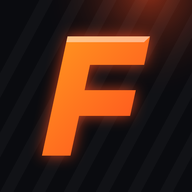
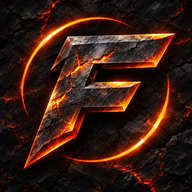
v1.14.0: własne grafiki w całej aplikacji
- logotyp, ikona aplikacji, ekran startowy z obrazem kuźni
- własne ikony nawigacji, narzędzi i partii mięśniowych
- zbliżenia mięśni na kartach ćwiczeń (mężczyzna i kobieta), podświetlenie w kolorze aplikacji
- tła ekranu głównego i podsumowania, karta do udostępniania, efekt rekordu
- ilustracje pustych ekranów, kreatora i poradnika, tekstura kart

Claude-Session: https://claude.ai/code/session_01MBC5hNdmTuuPU3k5V81gkn

diff --git a/js/body.js b/js/body.js
@@ -5,14 +5,15 @@
   const sexKey = () => F.S.settings.sex === 'f' ? 'f' : 'm';
   const px = img => { const c = document.createElement('canvas'); c.width = img.naturalWidth; c.height = img.naturalHeight; const g = c.getContext('2d', { willReadFrequently: true }); g.drawImage(img, 0, 0); return g.getImageData(0, 0, c.width, c.height).data; };
   const loadImg = src => new Promise((res, rej) => { const i = new Image(); i.onload = () => res(i); i.onerror = rej; i.src = src; });
-  const load = sex => cache[sex] || (cache[sex] = Promise.all([loadImg(`assets/body/${sex}.webp`), loadImg(`assets/body/${sex}-id.png`)]).then(([a, b]) => ({ w: a.naturalWidth, gray: px(a), id: px(b) })).catch(e => { cache[sex] = null; throw e; }));
+  const load = k => cache[k] || (cache[k] = Promise.all([loadImg(`assets/body/${k}.webp`), loadImg(`assets/body/${k}-id.png`)]).then(([a, b]) => ({ w: a.naturalWidth, gray: px(a), id: px(b) })).catch(e => { cache[k] = null; throw e; }));
   const hex = h => { h = String(h).trim().replace('#', ''); if (h.length === 3) h = [...h].map(x => x + x).join(''); return [0, 2, 4].map(i => parseInt(h.substr(i, 2), 16)); };
   const token = t => { const v = t === 'a1' || t === 'a2' ? getComputedStyle(document.documentElement).getPropertyValue('--' + t) : t; return hex(v); };
 
   async function paint(cv) {
-    const sex = cv.dataset.sex || sexKey(), view = cv.dataset.v, m = F.BODY[sex]; const r = cv.dataset.crop ? cv.dataset.crop.split(',').map(Number) : m.r[view];
+    const sex = cv.dataset.sex || sexKey(), view = cv.dataset.v, file = cv.dataset.f ? sex + '-' + cv.dataset.f : sex;
     const colors = JSON.parse(cv.dataset.c || '{}'), dim = +(cv.dataset.dim || 1); const tint = [null]; ORDER.forEach(n => tint.push(colors[n] ? token(colors[n]) : null));
-    let d; try { d = await load(sex); } catch (e) { return; }
+    let d; try { d = await load(file); } catch (e) { return; }
+    const r = cv.dataset.f ? [0, 0, d.w, Math.round(d.gray.length / 4 / d.w)] : F.BODY[sex].r[view];
     cv.width = r[2]; cv.height = r[3]; cv.dataset.vw = view; const g = cv.getContext('2d'), out = g.createImageData(r[2], r[3]), o = out.data;
     for (let y = 0; y < r[3]; y++) for (let x = 0; x < r[2]; x++) {
       const s = ((y + r[1]) * d.w + x + r[0]) * 4, k = (y * r[2] + x) * 4, v = d.gray[s] / 255, c = tint[d.id[s]];
@@ -33,21 +34,17 @@
     for (const [dx, dy] of [[0, 0], [8, 0], [-8, 0], [0, 8], [0, -8]]) { const id = d.id[((y + dy) * d.w + x + dx) * 4]; if (id) { F.act.musTap({ dataset: { m: ORDER[id - 1] } }); return; } }
   });
 
-  F.bodyCv = (view, colors, o = {}) => `<canvas class="bodyc ${o.cls || ''}" data-v="${view}" data-c="${E(JSON.stringify(colors || {}))}"${o.crop ? ` data-crop="${o.crop.join(',')}"` : ''}${o.dim ? ` data-dim="${o.dim}"` : ''}${o.tap ? ' data-tap="1"' : ''} aria-hidden="true"></canvas>`;
+  F.bodyCv = (view, colors, o = {}) => `<canvas class="bodyc ${o.cls || ''}" data-v="${view}" data-c="${E(JSON.stringify(colors || {}))}"${o.f ? ` data-f="${o.f}"` : ''}${o.dim ? ` data-dim="${o.dim}"` : ''}${o.tap ? ' data-tap="1"' : ''} aria-hidden="true"></canvas>`;
 
-  // grafika ćwiczenia: wybiera stronę ciała i kadr na pracujących mięśniach
-  F.exArt = (ids, aspect = 2) => {
-    const sex = sexKey(), m = F.BODY[sex]; const pri = new Set(), sec = new Set();
-    (Array.isArray(ids) ? ids : [ids]).forEach(id => { const x = F.exMuscles(id); x.p.forEach(n => pri.add(n)); x.s.forEach(n => sec.add(n)); });
-    const P = [...pri].filter(n => ORDER.includes(n)); const count = v => P.filter(n => m.bb[v + '-' + n]).length;
-    if (!P.length) { // całe ciało i cardio: pełna sylwetka
-      const legs = { quads: 'a1', calves: 'a1', glutes: 'a2', hams: 'a2' }; return `<div class="wk-art full">${F.bodyCv('f', legs, { dim: .8 })}${F.bodyCv('b', legs, { dim: .8 })}</div>`;
-    }
-    const v = count('b') > count('f') ? 'b' : 'f'; const colors = {}; sec.forEach(n => { if (ORDER.includes(n)) colors[n] = 'a2'; }); P.forEach(n => { colors[n] = 'a1'; });
-    const R = m.r[v], boxes = P.map(n => m.bb[v + '-' + n]).filter(Boolean); let x0 = Math.min(...boxes.map(b => b[0])), y0 = Math.min(...boxes.map(b => b[1])), x1 = Math.max(...boxes.map(b => b[0] + b[2])), y1 = Math.max(...boxes.map(b => b[1] + b[3]));
-    let w = Math.max(x1 - x0 + 70, 340), h = Math.max(y1 - y0 + 70, 200); if (w / h < aspect) w = h * aspect; else h = w / aspect;
-    const cx = (x0 + x1) / 2, cy = (y0 + y1) / 2; const ww = Math.min(w, m.w), hh = Math.min(h, m.h);
-    const cxl = Math.max(0, Math.min(m.w - ww, cx - ww / 2)), cyl = Math.max(0, Math.min(m.h - hh, cy - hh / 2));
-    return `<div class="wk-art">${F.bodyCv(v, colors, { crop: [Math.round(cxl), Math.round(cyl), Math.round(ww), Math.round(hh)], dim: .62 })}</div>`;
+  // grafika ćwiczenia: zbliżenie z pracującymi mięśniami, w kolorze aplikacji
+  const VIEWS = { chest: ['fu'], abs: ['fu'], shoulders: ['fu', 'bu', 'ar'], biceps: ['fu', 'ar'], forearms: ['ar', 'fu', 'bu'], triceps: ['bu', 'ar'], back: ['bu'], quads: ['lf'], calves: ['lb', 'lf'], hams: ['lb'], glutes: ['lb'] };
+  F.exArt = ids => {
+    const pri = [], sec = new Set();
+    (Array.isArray(ids) ? ids : [ids]).forEach(id => { const x = F.exMuscles(id); x.p.forEach(n => { if (ORDER.includes(n) && !pri.includes(n)) pri.push(n); }); x.s.forEach(n => sec.add(n)); });
+    if (!pri.length) { const legs = { quads: 'a1', calves: 'a1', glutes: 'a2', hams: 'a2' }; return `<div class="wk-art full">${F.bodyCv('f', legs, { dim: .8 })}${F.bodyCv('b', legs, { dim: .8 })}</div>`; }
+    const armsOnly = pri.every(n => ['biceps', 'triceps', 'forearms'].includes(n)); const score = v => pri.filter(n => VIEWS[n].includes(v)).length;
+    let view = armsOnly ? 'ar' : VIEWS[pri[0]][0]; if (!armsOnly) ['fu', 'bu', 'lf', 'lb'].forEach(v => { if (score(v) > score(view)) view = v; });
+    const colors = {}; sec.forEach(n => { if (ORDER.includes(n)) colors[n] = 'a2'; }); pri.forEach(n => { colors[n] = 'a1'; });
+    return `<div class="wk-art">${F.bodyCv(view, colors, { f: view, dim: .62 })}</div>`;
   };
 })();

diff --git a/js/app.js b/js/app.js
@@ -5,14 +5,16 @@
   const exOf = id => F.S.ex.get(id);
   const exName = id => (exOf(id) || { name: 'Usunięte ćwiczenie' }).name;
   F.exName = exName;
-  const mDot = m => `<i class="mdot" style="--mc:${F.MUSCLE_COLORS[m] || '#888'}"></i>`;
+  const mDot = m => { const i = Object.keys(F.MUSCLES).indexOf(m); return `<i class="mdot" style="-webkit-mask-image:url(assets/mus/${i < 0 ? 11 : i}.webp);mask-image:url(assets/mus/${i < 0 ? 11 : i}.webp)"></i>`; };
+  F.gly = (n, s = 24) => `<i class="gly" style="-webkit-mask-image:url(assets/ic/${n}.webp);mask-image:url(assets/ic/${n}.webp);width:${s}px;height:${s}px"></i>`;
   F.mDot = mDot;
   F.rankImg = (i, s = 64) => `<img class="rk-em" src="assets/rank/${i}.webp" width="${s}" height="${s}" alt="">`;
 
   /* ---------- helpers widoku ---------- */
   const head = (title, o = {}) => `<header class="ph">${o.back ? `<button class="ibtn back" data-a="back" aria-label="Wstecz">${ic('chevron-left', 24)}</button>` : ''}<div class="ph-t"><h1>${title}</h1>${o.sub ? `<p>${o.sub}</p>` : ''}</div><div class="ph-r">${o.right || ''}</div></header>`;
   F.head = head;
-  const empty = (icon, title, text, cta) => `<div class="empty">${ic(icon, 40)}<h3>${title}</h3><p>${text}</p>${cta || ''}</div>`;
+  const EMPTY = { 'clipboard-list': 0, history: 1, 'chart-line': 2, ruler: 3, camera: 4, search: 5 };
+  const empty = (icon, title, text, cta) => `<div class="empty">${EMPTY[icon] != null ? `<img src="assets/empty/${EMPTY[icon]}.webp" width="130" height="130" alt="">` : ic(icon, 40)}<h3>${title}</h3><p>${text}</p>${cta || ''}</div>`;
   F.empty = empty;
   F.act.back = () => { if (history.length > 1) history.back(); else location.hash = '#/home'; };
   F.go = h => { location.hash = h; };
@@ -93,19 +95,19 @@
     if (F.installEvt && !F.isStandalone()) banners += `<div class="banner"><div>${ic('smartphone', 20)}</div><p><b>Zainstaluj FORGE</b><br><small>Pełny ekran i działanie bez internetu.</small></p><button class="btn sm primary" data-a="installApp">Instaluj</button></div>`;
     else if (F.isIOS() && !F.isStandalone() && !s.installDismissed) banners += `<div class="banner"><div>${ic('smartphone', 20)}</div><p><b>Dodaj do ekranu początkowego</b><br><small>Safari → Udostępnij → „Do ekranu początkowego”.</small></p><button class="ibtn" data-a="dismissInstall" aria-label="Ukryj">${ic('x', 18)}</button></div>`;
     return {
-      html: `<header class="hm-top"><span class="hm-logo">${F.logo(34)}<b>FORGE</b></span><a class="ibtn" href="#/settings" aria-label="Ustawienia">${ic('settings', 22)}</a></header>
+      html: `<header class="hm-top"><img class="hm-logo" src="assets/bg/logo.webp" alt="FORGE"><a class="ibtn" href="#/settings" aria-label="Ustawienia">${ic('settings', 22)}</a></header>
       <section class="hm-greet"><div><h1>${greet}${s.name ? ', ' + E(s.name) : ''}</h1><p>${F.fmtDateLong(Date.now())}</p></div><a class="hm-rank" href="#/stats" data-a="goOver">${F.chart.ring(rk.pct, 76, 4, F.rankImg(rk.i, 50))}<small>${rk.name}</small></a></section>
       ${hero}
       ${F.pendHtml ? F.pendHtml() : ""}
       ${banners}
       <div class="qa">
-        <a class="qa-i cut" href="#/wizard" data-a="newWizard">${ic('sparkles', 24)}<span>Kreator planu</span></a>
-        <a class="qa-i cut" href="#/report">${ic('chart-column', 24)}<span>Raport tygodnia</span></a><a class="qa-i cut" href="#/nutrition">${ic('flame', 24)}<span>Żywienie</span></a>
-        <a class="qa-i cut" href="#/guide">${ic('info', 24)}<span>Porady i nauka</span></a>
-        <a class="qa-i cut" href="#/import">${ic('scan-text', 24)}<span>Import planu</span></a>
-        <a class="qa-i cut" href="#/tools">${ic('calculator', 24)}<span>Kalkulatory</span></a>
-        <a class="qa-i cut" href="#/exercises">${ic('dumbbell', 24)}<span>Ćwiczenia</span></a>
-        <a class="qa-i cut" href="#/stats" data-a="goBody">${ic('scale', 24)}<span>Waga ciała</span></a>
+        <a class="qa-i cut" href="#/wizard" data-a="newWizard">${F.gly(4, 26)}<span>Kreator planu</span></a>
+        <a class="qa-i cut" href="#/report">${F.gly(5, 26)}<span>Raport tygodnia</span></a><a class="qa-i cut" href="#/nutrition">${F.gly(6, 26)}<span>Żywienie</span></a>
+        <a class="qa-i cut" href="#/guide">${F.gly(7, 26)}<span>Porady i nauka</span></a>
+        <a class="qa-i cut" href="#/import">${F.gly(8, 26)}<span>Import planu</span></a>
+        <a class="qa-i cut" href="#/tools">${F.gly(9, 26)}<span>Kalkulatory</span></a>
+        <a class="qa-i cut" href="#/exercises">${F.gly(10, 26)}<span>Ćwiczenia</span></a>
+        <a class="qa-i cut" href="#/stats" data-a="goBody">${F.gly(11, 26)}<span>Waga ciała</span></a>
       </div>
       <section class="card cut week"><div class="week-top"><div><h3>Ten tydzień</h3><p class="dim">${wk.count} z ${goal} treningów</p></div>${F.chart.ring(Math.min(1, wk.count / goal), 64, 7, `<b>${wk.count}<small>/${goal}</small></b>`)}</div><div class="strip">${strip}</div></section>
       <div class="tiles">

diff --git a/js/workout.js b/js/workout.js
@@ -276,6 +276,7 @@
     const p = prs[0]; const txt = ex.type === 'time' ? F.fmtDur(s.r) : ex.type === 'br' ? s.r + ' powt.' : `${F.fwt(s.w, ex)} ${F.unit()} × ${s.r}`;
     const el = document.createElement('div'); el.className = 'pr-banner'; el.innerHTML = `${ic('trophy', 28)}<div><b>Nowy rekord</b><span>${E(p.label)}</span><em>${E(ex.name)} · ${txt}</em></div>`;
     document.body.appendChild(el); requestAnimationFrame(() => el.classList.add('in'));
+    if (!matchMedia('(prefers-reduced-motion: reduce)').matches) { const bst = document.createElement('img'); bst.className = 'pr-burst'; bst.src = 'assets/bg/burst.webp'; bst.alt = ''; document.body.appendChild(bst); setTimeout(() => bst.remove(), 1300); }
     F.haptic([60, 40, 60, 40, 160]); F.beep([[660, .09], [880, .09], [1175, .09], [1568, .26]]);
     if (btn) F.burstAt(btn, 70, 1.3); setTimeout(() => F.burst(innerWidth / 2, 90, 60, 1.1), 180);
     setTimeout(() => { el.classList.remove('in'); setTimeout(() => el.remove(), 400); }, 3200);
@@ -354,7 +355,7 @@
   function summary(s, xpGain, rankUp) {
     const vol = F.sessionVolume(s); const rk = F.rank();
     F.go('#/home');
-    const html = `<div class="sum"><div class="sum-top">${F.logo(54)}<h2>Trening<br>zaliczony</h2><p>${E(s.name)}</p></div>
+    const html = `<div class="sum"><div class="sum-top"><img class="sum-logo" src="assets/bg/logo.webp" alt="FORGE"><h2>Trening<br>zaliczony</h2><p>${E(s.name)}</p></div>
       <div class="sum-stats"><div><small>Czas</small><b>${F.fmtMin(s.dur)}</b></div><div><small>Tonaż</small><b>${F.fmtVol(vol)}</b></div><div><small>Serie</small><b>${F.sessionSets(s)}</b></div><div><small>Kcal</small><b>${F.fmtNum(Math.round(F.sessKcal(s).net / 5) * 5, 0)}</b></div></div>
       ${s.pend && s.pend.length ? `<p class="small">${ic('timer', 14)} Do dokończenia: ${s.pend.map(p => E(F.exName(p.exId)) + ' ' + p.mins + ' min').join(', ')}. Dopiszesz to z ekranu głównego w ciągu 48 godzin — trening zostanie przeliczony.</p>` : ''}
       ${s.prs.length ? `<div class="sum-pr"><h3>${ic('trophy', 20)} ${s.prs.length === 1 ? 'Nowy rekord' : s.prs.length + ' nowe rekordy'}</h3>${s.prs.map(p => `<div><b>${E(F.exName(p.exId))}</b><span>${E(p.text)}</span></div>`).join('')}</div>` : ''}
@@ -372,13 +373,11 @@
     try { await Promise.all([document.fonts.load('italic 800 80px "Barlow Condensed"'), document.fonts.load('700 40px "Barlow Condensed"'), document.fonts.load('500 30px Barlow')]); } catch (e) { }
     const W = 1080, H = 1350, c = document.createElement('canvas'); c.width = W; c.height = H; const g = c.getContext('2d');
     const cs = getComputedStyle(document.documentElement); const a1 = cs.getPropertyValue('--a1').trim() || '#ff4b1f', a2 = cs.getPropertyValue('--a2').trim() || '#ff9a1f';
-    g.fillStyle = '#0b0c0f'; g.fillRect(0, 0, W, H);
-    let rg = g.createRadialGradient(W * .85, 0, 0, W * .85, 0, 900); rg.addColorStop(0, a1 + '99'); rg.addColorStop(1, 'transparent'); g.fillStyle = rg; g.fillRect(0, 0, W, H);
-    g.save(); g.globalAlpha = .12; for (let i = 0; i < 9; i++) { g.fillStyle = i % 2 ? a1 : a2; g.beginPath(); g.moveTo(-100 + i * 150, H); g.lineTo(60 + i * 150, H); g.lineTo(560 + i * 150, 0); g.lineTo(400 + i * 150, 0); g.fill(); } g.restore();
-    const lg = g.createLinearGradient(0, 0, 100, 100); lg.addColorStop(0, a2); lg.addColorStop(1, a1);
-    g.save(); g.translate(70, 70); g.scale(1.1, 1.1); g.fillStyle = lg; g.fill(new Path2D(F.LOGO_PATH)); g.restore();
-    g.fillStyle = '#e8eaf0'; g.font = 'italic 800 64px "Barlow Condensed"'; g.fillText('FORGE', 200, 140);
-    g.fillStyle = '#8b91a0'; g.font = '500 34px Barlow'; g.textAlign = 'right'; g.fillText(F.fmtDateLong(s.start), W - 70, 138); g.textAlign = 'left';
+    const pic = src => new Promise(res => { const i = new Image(); i.onload = () => res(i); i.onerror = () => res(null); i.src = src; });
+    const [bgI, logoI] = await Promise.all([pic('assets/bg/share.webp'), pic('assets/bg/logo.webp')]);
+    g.fillStyle = '#0b0c0f'; g.fillRect(0, 0, W, H); if (bgI) g.drawImage(bgI, 0, 0, W, H);
+    if (logoI) g.drawImage(logoI, 70, 74, 360, 360 * logoI.naturalHeight / logoI.naturalWidth);
+    g.fillStyle = '#c9c0b6'; g.font = '500 34px Barlow'; g.textAlign = 'right'; g.fillText(F.fmtDateLong(s.start), W - 70, 124); g.textAlign = 'left';
     let fs = 170; const title = (s.name || 'Trening').toUpperCase(); g.font = `italic 800 ${fs}px "Barlow Condensed"`; while (g.measureText(title).width > W - 140 && fs > 60) { fs -= 6; g.font = `italic 800 ${fs}px "Barlow Condensed"`; }
     g.fillStyle = '#fff'; g.fillText(title, 70, 380);
     const bar = g.createLinearGradient(70, 0, 500, 0); bar.addColorStop(0, a2); bar.addColorStop(1, a1); g.fillStyle = bar; g.fillRect(70, 410, 420, 10);

diff --git a/sw.js b/sw.js
@@ -1,9 +1,9 @@
 /* FORGE — service worker: działanie offline, odświeżanie w tle, odbiór plików z menu „Udostępnij” */
-const VERSION = 'forge-v1.13.0';
+const VERSION = 'forge-v1.14.0';
 const LIBS = 'forge-libs-1'; // moduły OCR i PDF (ok. 11 MB): osobna pamięć, która przetrwa aktualizacje aplikacji; zmień numer przy podmianie plików w vendor/
 const CORE = ['./', 'index.html', 'manifest.webmanifest', 'css/styles.css',
   'js/icons.js', 'js/data.js', 'js/exinfo.js', 'js/exdb.js', 'js/kb.js', 'js/features.js', 'js/kcal.js', 'js/body-data.js', 'js/body.js', 'js/alert.js', 'js/inputs.js', 'js/core.js', 'js/charts.js', 'js/ui.js', 'js/parser.js', 'js/app.js', 'js/views2.js', 'js/workout.js', 'js/importer.js', 'js/planner.js', 'js/cardio.js', 'js/wizard.js', 'js/coach.js', 'js/guide.js', 'js/main.js',
-  'assets/body/m.webp', 'assets/body/m-id.png', 'assets/body/f.webp', 'assets/body/f-id.png', 'assets/rank/0.webp', 'assets/rank/1.webp', 'assets/rank/2.webp', 'assets/rank/3.webp', 'assets/rank/4.webp', 'assets/rank/5.webp', 'assets/rank/6.webp', 'assets/ach/0.webp', 'assets/ach/1.webp', 'assets/ach/2.webp', 'assets/ach/3.webp', 'assets/ach/4.webp', 'assets/ach/5.webp', 'assets/ach/6.webp', 'assets/ach/7.webp', 'assets/ach/8.webp', 'assets/ach/9.webp', 'assets/ach/10.webp', 'assets/ach/11.webp', 'assets/ach/12.webp', 'assets/ach/13.webp', 'assets/ach/14.webp',
+  'assets/ach/0.webp', 'assets/ach/1.webp', 'assets/ach/10.webp', 'assets/ach/11.webp', 'assets/ach/12.webp', 'assets/ach/13.webp', 'assets/ach/14.webp', 'assets/ach/2.webp', 'assets/ach/3.webp', 'assets/ach/4.webp', 'assets/ach/5.webp', 'assets/ach/6.webp', 'assets/ach/7.webp', 'assets/ach/8.webp', 'assets/ach/9.webp', 'assets/bg/burst.webp', 'assets/bg/hero.webp', 'assets/bg/logo.webp', 'assets/bg/share.webp', 'assets/bg/splash.webp', 'assets/bg/sum.webp', 'assets/bg/tex.webp', 'assets/body/f-ar-id.png', 'assets/body/f-ar.webp', 'assets/body/f-bu-id.png', 'assets/body/f-bu.webp', 'assets/body/f-fu-id.png', 'assets/body/f-fu.webp', 'assets/body/f-id.png', 'assets/body/f-lb-id.png', 'assets/body/f-lb.webp', 'assets/body/f-lf-id.png', 'assets/body/f-lf.webp', 'assets/body/f.webp', 'assets/body/m-ar-id.png', 'assets/body/m-ar.webp', 'assets/body/m-bu-id.png', 'assets/body/m-bu.webp', 'assets/body/m-fu-id.png', 'assets/body/m-fu.webp', 'assets/body/m-id.png', 'assets/body/m-lb-id.png', 'assets/body/m-lb.webp', 'assets/body/m-lf-id.png', 'assets/body/m-lf.webp', 'assets/body/m.webp', 'assets/empty/0.webp', 'assets/empty/1.webp', 'assets/empty/2.webp', 'assets/empty/3.webp', 'assets/empty/4.webp', 'assets/empty/5.webp', 'assets/guide/0.webp', 'assets/guide/1.webp', 'assets/guide/10.webp', 'assets/guide/11.webp', 'assets/guide/12.webp', 'assets/guide/13.webp', 'assets/guide/2.webp', 'assets/guide/3.webp', 'assets/guide/4.webp', 'assets/guide/5.webp', 'assets/guide/6.webp', 'assets/guide/7.webp', 'assets/guide/8.webp', 'assets/guide/9.webp', 'assets/ic/0.webp', 'assets/ic/1.webp', 'assets/ic/10.webp', 'assets/ic/11.webp', 'assets/ic/2.webp', 'assets/ic/3.webp', 'assets/ic/4.webp', 'assets/ic/5.webp', 'assets/ic/6.webp', 'assets/ic/7.webp', 'assets/ic/8.webp', 'assets/ic/9.webp', 'assets/mus/0.webp', 'assets/mus/1.webp', 'assets/mus/10.webp', 'assets/mus/11.webp', 'assets/mus/12.webp', 'assets/mus/2.webp', 'assets/mus/3.webp', 'assets/mus/4.webp', 'assets/mus/5.webp', 'assets/mus/6.webp', 'assets/mus/7.webp', 'assets/mus/8.webp', 'assets/mus/9.webp', 'assets/rank/0.webp', 'assets/rank/1.webp', 'assets/rank/2.webp', 'assets/rank/3.webp', 'assets/rank/4.webp', 'assets/rank/5.webp', 'assets/rank/6.webp', 'assets/wiz/0.webp', 'assets/wiz/1.webp', 'assets/wiz/2.webp', 'assets/wiz/3.webp', 'assets/wiz/4.webp', 'assets/wiz/5.webp', 'assets/wiz/6.webp', 'assets/wiz/7.webp',
   'icons/icon.svg', 'icons/icon-192.png', 'icons/icon-512.png', 'icons/apple-touch-icon.png', 'icons/favicon-32.png',
   'fonts/barlow-condensed-latin-600-normal.woff2', 'fonts/barlow-condensed-latin-700-normal.woff2', 'fonts/barlow-condensed-latin-800-normal.woff2',
   'fonts/barlow-condensed-latin-600-italic.woff2', 'fonts/barlow-condensed-latin-700-italic.woff2', 'fonts/barlow-condensed-latin-800-italic.woff2',

diff --git a/css/styles.css b/css/styles.css
@@ -744,3 +744,33 @@ body.kbd .wk-art{height:0;margin:0}
 #splash .sp-word,.sp-tag{font-family:var(--fl);font-style:italic}
 .wk2 .xc-h .mdot{display:none}
 .wk2:has(+ #rest-dock.on) .wk-hint{display:none}
+
+/* ===== 1.14: grafiki ===== */
+:root{--img-f:none}:root[data-accent=crimson]{--img-f:hue-rotate(-16deg) saturate(1.1)}:root[data-accent=gold]{--img-f:hue-rotate(20deg) saturate(1.05)}:root[data-accent=ice]{--img-f:hue-rotate(178deg) saturate(.9)}
+.card,.tile,.plan,.importcard,.tpl,.qa-i,.prchip,.sess,.badge,.banner,.drop,.rsum,.xc-2>*{background:linear-gradient(160deg,rgba(38,32,27,.8),rgba(19,16,14,.86) 60%,rgba(14,12,10,.92)),url(../assets/bg/tex.webp) center/256px}
+.gly,.mdot{display:inline-block;flex:none;background:currentColor;-webkit-mask-size:contain;mask-size:contain;-webkit-mask-repeat:no-repeat;mask-repeat:no-repeat;-webkit-mask-position:center;mask-position:center}
+.mdot{width:24px;height:24px;background:var(--a2);transform:none;border-radius:0;box-shadow:none}
+.qa-i .gly{color:var(--a2);filter:drop-shadow(0 0 7px rgba(var(--a1-rgb),.55))}
+.tb button.t .gly{transition:color .2s}.tb button.t.on .gly{color:var(--a2);filter:drop-shadow(0 0 8px rgba(var(--a1-rgb),.8))}
+.hm-logo{display:block;height:34px;width:auto}
+.hero{isolation:isolate;background:#0d0a08;overflow:hidden}
+.hero::before{display:block;content:"";position:absolute;inset:0;right:0;top:0;width:auto;height:auto;z-index:-2;background:url(../assets/bg/hero.webp) right center/cover;filter:var(--img-f)}
+.hero::after{display:block;content:"";position:absolute;inset:0;right:0;bottom:0;width:auto;height:auto;z-index:-1;transform:none;background:linear-gradient(90deg,rgba(10,8,7,.86) 25%,rgba(10,8,7,.3) 80%,transparent),linear-gradient(0deg,rgba(10,8,7,.7),transparent 55%)}
+.sheet.full-sum{isolation:isolate;overflow:hidden}.sheet.full-sum::before{content:"";position:absolute;inset:0;z-index:-1;background:url(../assets/bg/sum.webp) center bottom/cover;filter:var(--img-f) brightness(.7)}
+.sum-logo{display:block;height:30px;width:auto}.sum-top h2{font:600 clamp(38px,12vw,52px)/1 var(--fd)}
+.sum-stats div{background:rgba(16,13,11,.72)}
+#splash{background:#07080b}#splash::before{left:0;top:0;width:100%;height:100%;transform:none;background:url(../assets/bg/splash.webp) center bottom/cover;filter:var(--img-f)}
+#splash .sp-img{position:relative;width:min(74vw,340px);height:auto;animation:spin 1s cubic-bezier(.2,.9,.3,1) both}
+@keyframes spin{from{opacity:0;transform:scale(1.25)}to{opacity:1;transform:none}}
+#splash .sp-tag{letter-spacing:.32em;font:500 13px var(--fb);font-style:normal;text-transform:uppercase;color:#d9cfc4;animation:fadeup .6s .7s forwards}
+.pr-burst{position:fixed;left:50%;top:40%;width:150vw;max-width:900px;z-index:94;pointer-events:none;mix-blend-mode:screen;filter:var(--img-f);transform:translate(-50%,-50%);animation:prb 1.25s ease-out both}
+@keyframes prb{from{opacity:0;transform:translate(-50%,-50%) scale(.3)}18%{opacity:1}to{opacity:0;transform:translate(-50%,-50%) scale(1.15)}}
+.empty img{display:block;filter:drop-shadow(0 8px 20px rgba(var(--a1-rgb),.28))}
+.wz-o.im{display:flex;align-items:center;gap:12px;text-align:left}.wz-o.im img{flex:none;display:block}.wz-o.im>span{display:grid;gap:2px;min-width:0}
+.plan-i.im{width:64px;height:64px;padding:0;background:none;overflow:hidden;border-radius:12px;flex:none}.plan-i.im img{display:block;width:100%;height:100%;object-fit:cover}
+.art-im{display:block;width:100%;height:150px;object-fit:cover;border-radius:12px;margin-bottom:12px}
+.wk-art{height:auto;aspect-ratio:2/1;max-height:24vh}.wk-art .bodyc{width:100%;height:100%;object-fit:contain}.wk-art.full .bodyc{width:50%}
+.tech .wk-art{margin:0 0 10px;max-height:none;border-radius:12px}
+.wz-opts .wz-o.im{display:flex!important;align-items:center;justify-items:start;text-align:left}
+.wz-opts .wz-o.im{flex-direction:row!important;grid-template-columns:none}
+.sheet.full-sum::before{filter:var(--img-f) brightness(.42)}

diff --git a/js/wizard.js b/js/wizard.js
@@ -42,7 +42,7 @@
   const goalDefaultsCardio = g => g === 'sculpt' || g === 'health' || g === 'endur';
 
   const chip = (on, act, attrs, label) => `<button class="chip ${on ? 'on' : ''}" data-a="${act}" ${attrs}>${E(label)}</button>`;
-  const opt = (on, act, attrs, t, sub) => `<button class="wz-o ${on ? 'on' : ''}" data-a="${act}" ${attrs}><b>${E(t)}</b>${sub ? `<small>${E(sub)}</small>` : ''}</button>`;
+  const opt = (on, act, attrs, t, sub, img) => `<button class="wz-o ${on ? 'on' : ''} ${img != null ? 'im' : ''}" data-a="${act}" ${attrs}>${img != null ? `<img src="assets/wiz/${img}.webp" width="64" height="64" alt="">` : ''}<span><b>${E(t)}</b>${sub ? `<small>${E(sub)}</small>` : ''}</span></button>`;
   const yn = (k, i, v) => `<div class="wz-yn ${v === null ? 'miss' : ''}"><p>${E(SCR[i])}</p><div class="chips">${chip(v === false, 'wzScr', `data-i="${i}" data-v="0"`, 'Nie')}${chip(v === true, 'wzScr', `data-i="${i}" data-v="1"`, 'Tak')}</div></div>`;
 
   /* ---------- kroki ---------- */
@@ -77,7 +77,7 @@
       <div class="chips">${chip(!w.scheme, 'wzScheme', 'data-v=""', 'Jeden ciężar we wszystkich seriach')}${chip(w.scheme === 'pyr', 'wzScheme', 'data-v="pyr"', 'Narastająco (piramida)')}</div>
       <p class="dim small">Badania nie pokazują przewagi żadnego z tych sposobów dla siły i masy mięśniowej — wybierz ten, który lepiej Ci służy. Piramida: w kolejnych seriach ciężar rośnie, a powtórzeń jest mniej (nie dotyczy planów dla osób 65+, w ciąży i po porodzie).</p>` : ''}</section>`; },
     goal: () => { const w = Z().w; return `<section class="card cut"><h3>${ic('trophy', 18)} Cel</h3>
-      <div class="wz-opts">${Object.entries(P.GOALS).map(([k, v]) => opt(w.goal === k, 'wzGoal', `data-v="${k}"`, v[0], v[1])).join('')}</div>
+      <div class="wz-opts">${Object.entries(P.GOALS).map(([k, v], i) => opt(w.goal === k, 'wzGoal', `data-v="${k}"`, v[0], v[1], i)).join('')}</div>
       <h4 class="lbl">Partie priorytetowe (do 3, opcjonalnie)</h4><div class="chips">${Object.entries(PRIO).map(([k, t]) => chip(w.prio.includes(k), 'wzPrio', `data-v="${k}"`, t)).join('')}</div>
       <p class="dim small">Priorytetowe partie dostaną więcej serii, pozostałe utrzymam na rozsądnym poziomie.</p>
       <p class="dim small">Cardio omówimy w następnym kroku.</p></section>`; },
@@ -104,7 +104,7 @@
       <p class="small">${n ? `Wybrano ${n} ${F.plur(n, 'dzień', 'dni', 'dni')} tygodniowo.` : 'Wybierz co najmniej jeden dzień.'}${n >= 6 ? ' Zostaw przynajmniej jeden dzień na pełny odpoczynek.' : ''}</p>
       ${timeBlock(w)}</section>`; },
     equip: () => { const w = Z().w; return `<section class="card cut"><h3>${ic('dumbbell', 18)} Sprzęt</h3>
-      <div class="wz-opts">${Object.entries(PRESET).map(([k, v]) => opt(w.preset === k, 'wzPreset', `data-v="${k}"`, v[0], v[1])).join('')}</div>
+      <div class="wz-opts">${Object.entries(PRESET).map(([k, v], i) => opt(w.preset === k, 'wzPreset', `data-v="${k}"`, v[0], v[1], i + 5)).join('')}</div>
       <h4 class="lbl">Dostosuj</h4>
       ${EQ_ALL.map(k => `<label class="sw"><span><b>${EQ_L[k]}</b></span><input type="checkbox" data-b="wzEq" data-k="${k}" ${w.equip.includes(k) ? 'checked' : ''}><i></i></label>`).join('')}
       <label class="sw"><span><b>Ławka (płaska / regulowana)</b></span><input type="checkbox" data-b="wzFlag" data-k="bench" ${w.bench ? 'checked' : ''}><i></i></label>

diff --git a/js/guide.js b/js/guide.js
@@ -76,7 +76,7 @@
   V.guide = () => {
     const q = F.norm(F.ui.guideQ || '');
     const list = A.filter(a => !q || F.norm(a.t + ' ' + a.lead).includes(q));
-    const html = Object.entries(CATS).map(([k, n]) => { const it = list.filter(a => a.c === k); return it.length ? `<h3 class="sec">${n}</h3><div class="stack">${it.map(a => `<a class="plan cut" href="#/guide/${a.id}"><div class="plan-i">${ic(a.ic, 22)}</div><div class="plan-b"><h3>${E(a.t)}</h3><p>${E(a.lead)}</p></div>${ic('chevron-right', 20)}</a>`).join('')}</div>` : ''; }).join('');
+    const html = Object.entries(CATS).map(([k, n]) => { const it = list.filter(a => a.c === k); return it.length ? `<h3 class="sec">${n}</h3><div class="stack">${it.map(a => `<a class="plan cut" href="#/guide/${a.id}"><div class="plan-i im"><img src="assets/guide/${A.indexOf(a)}.webp" width="64" height="64" alt="" loading="lazy"></div><div class="plan-b"><h3>${E(a.t)}</h3><p>${E(a.lead)}</p></div>${ic('chevron-right', 20)}</a>`).join('')}</div>` : ''; }).join('');
     return { html: `${F.head('Porady i nauka', { back: 1, sub: 'Zasady treningu w prostych słowach' })}
       <label class="fld"><input data-b="guideq" type="search" placeholder="Szukaj w poradach…" value="${E(F.ui.guideQ || '')}"></label>
       <div id="guide-list">${html || '<p class="dim pad center">Brak wyników.</p>'}</div>
@@ -87,7 +87,7 @@
     const a = A.find(x => x.id === id); if (!a) return { html: F.head('Porady', { back: 1 }) + '<p class="dim pad center">Nie znaleziono artykułu.</p>' };
     const body = a.b.map(([t, v]) => t === 'h' ? `<h4 class="lbl">${E(v)}</h4>` : t === 'p' ? `<p>${E(v)}</p>` : `<ul class="tips">${v.map(x => `<li>${E(x)}</li>`).join('')}</ul>`).join('');
     const facts = (a.f || []).map(k => F.KB.facts[k]).filter(Boolean);
-    return { html: `${F.head(a.t, { back: 1 })}<section class="card cut art"><p class="lead">${E(a.lead)}</p>${body}</section>
+    return { html: `${F.head(a.t, { back: 1 })}<section class="card cut art"><img class="art-im" src="assets/guide/${A.indexOf(a)}.webp" alt=""><p class="lead">${E(a.lead)}</p>${body}</section>
       ${facts.length ? `<h3 class="sec">Co mówią badania</h3><section class="card cut">${facts.map(f => `<p class="small">${E(f.pl)}</p>`).join('')}</section>` : ''}
       ${srcHtml(facts.flatMap(f => f.src))}` };
   };

diff --git a/js/main.js b/js/main.js
@@ -2,11 +2,11 @@
 (function () {
   const F = window.F; const ic = (n, s) => window.icon(n, s);
   const tabs = () => `<div class="tb">
-    <button class="t" data-a="tab" data-tab="home" aria-label="Dziś">${ic('house', 24)}<span>Dziś</span></button>
-    <button class="t" data-a="tab" data-tab="plans" aria-label="Plany">${ic('clipboard-list', 24)}<span>Plany</span></button>
+    <button class="t" data-a="tab" data-tab="home" aria-label="Dziś">${F.gly(0, 25)}<span>Dziś</span></button>
+    <button class="t" data-a="tab" data-tab="plans" aria-label="Plany">${F.gly(1, 25)}<span>Plany</span></button>
     <div class="mid ${F.S.draft ? 'live' : ''}"><button data-a="tab" data-tab="workout" aria-label="${F.S.draft ? 'Wróć do treningu' : 'Rozpocznij trening'}">${ic(F.S.draft ? 'play' : 'flame', 34)}</button></div>
-    <button class="t" data-a="tab" data-tab="history" aria-label="Historia">${ic('history', 24)}<span>Historia</span></button>
-    <button class="t" data-a="tab" data-tab="stats" aria-label="Postępy">${ic('chart-line', 24)}<span>Postępy</span></button></div>`;
+    <button class="t" data-a="tab" data-tab="history" aria-label="Historia">${F.gly(2, 25)}<span>Historia</span></button>
+    <button class="t" data-a="tab" data-tab="stats" aria-label="Postępy">${F.gly(3, 25)}<span>Postępy</span></button></div>`;
   F.drawTabs = () => { const el = F.$('#tabbar'); el.innerHTML = tabs(); const cur = document.body.dataset.route; F.$$('#tabbar [data-tab]').forEach(b => b.classList.toggle('on', b.dataset.tab === cur)); };
   const _r = F.render; F.render = k => { _r(k); F.drawTabs(); };
 

diff --git a/js/features.js b/js/features.js
@@ -220,7 +220,7 @@
     else if (i && i.d) media = `<div class="tech-img n${i.n}">${Array.from({ length: Math.min(2, i.n) }, (_, k) => `<img crossorigin="anonymous" loading="lazy" decoding="async" data-d="${E(i.d)}" data-n="${k}" src="${IMG1(i.d, k)}" alt="${E(ex.name)} — ${k ? 'koniec' : 'start'} ruchu">`).join('')}<em class="tech-off">Zdjęcia pobiorą się po połączeniu z internetem.</em></div>`;
     const tips = ex.tip ? String(ex.tip).split(/\n+/).filter(Boolean) : ((i && i.t) || []);
     const yt = `https://www.youtube.com/results?search_query=${encodeURIComponent(ex.name + ' technika')}`;
-    return `${media}<div class="tech-m"><div><small>Główne</small><div class="mchips">${chips(mu.p, 'p')}</div></div>${mu.s.length ? `<div><small>Pomocnicze</small><div class="mchips">${chips(mu.s, 's')}</div></div>` : ''}</div>
+    return `${F.exArt(id)}${media}<div class="tech-m"><div><small>Główne</small><div class="mchips">${chips(mu.p, 'p')}</div></div>${mu.s.length ? `<div><small>Pomocnicze</small><div class="mchips">${chips(mu.s, 's')}</div></div>` : ''}</div>
       ${tips.length ? `<h4 class="lbl">Technika</h4><ul class="tips">${tips.map(t => `<li>${E(t)}</li>`).join('')}</ul>` : `<p class="dim small">Brak opisu techniki. Dodaj własny w edycji ćwiczenia.</p>`}
       ${i && i.i && i.i.length ? `<details class="en"><summary>Instrukcja krok po kroku (angielski)</summary><ol>${i.i.map(t => `<li>${E(t)}</li>`).join('')}</ol></details>` : ''}
       <a class="btn ghost wide" href="${yt}" target="_blank" rel="noopener">${ic('play', 18)} Szukaj filmu z techniką</a>

diff --git a/index.html b/index.html
@@ -9,22 +9,19 @@
 <meta name="color-scheme" content="dark">
 <link rel="manifest" href="manifest.webmanifest">
 <link rel="icon" type="image/png" sizes="32x32" href="icons/favicon-32.png">
-<link rel="icon" type="image/svg+xml" href="icons/icon.svg">
 <link rel="apple-touch-icon" href="icons/apple-touch-icon.png">
 <meta name="apple-mobile-web-app-capable" content="yes">
 <meta name="mobile-web-app-capable" content="yes">
 <meta name="apple-mobile-web-app-title" content="FORGE">
 <meta name="apple-mobile-web-app-status-bar-style" content="black-translucent">
 <meta name="format-detection" content="telephone=no">
-<link rel="preload" href="fonts/barlow-condensed-latin-800-italic.woff2" as="font" type="font/woff2" crossorigin>
 <link rel="stylesheet" href="css/styles.css">
 <style>html,body{background:#0a0b0f}#splash{position:fixed;inset:0;background:#07080b;z-index:200}</style>
 </head>
 <body>
 <div id="splash" aria-hidden="true">
-  <svg class="sp-logo" viewBox="0 0 100 100"><defs><linearGradient id="spg" x1="0" y1="0" x2="1" y2="1"><stop offset="0" stop-color="var(--a2)"/><stop offset="1" stop-color="var(--a1)"/></linearGradient></defs><path d="M30 8H88L84 28H45.7L41.9 46H78L74 64H38L32 92H12Z"/></svg>
-  <div class="sp-word"><span>F</span><span>O</span><span>R</span><span>G</span><span>E</span></div>
-  <div class="sp-tag">Kuj swoją siłę</div>
+  <img class="sp-img" src="assets/bg/logo.webp" alt="">
+  <div class="sp-tag">Dziennik treningowy</div>
 </div>
 <div id="app"><main id="view" tabindex="-1"></main></div>
 <div id="dock"></div>

diff --git a/js/core.js b/js/core.js
@@ -74,7 +74,7 @@
     F.S.draft = draft || null;
     F.rebuild();
   };
-  F.APPVER = '1.13.0';
+  F.APPVER = '1.14.0';
   F.autoSnap = async (ex, plans, sessions, bw, meas, set) => {
     if (!sessions.length && !plans.length) return;
     const cur = await F.kvGet('snap'); const ver = await F.kvGet('appVer');
